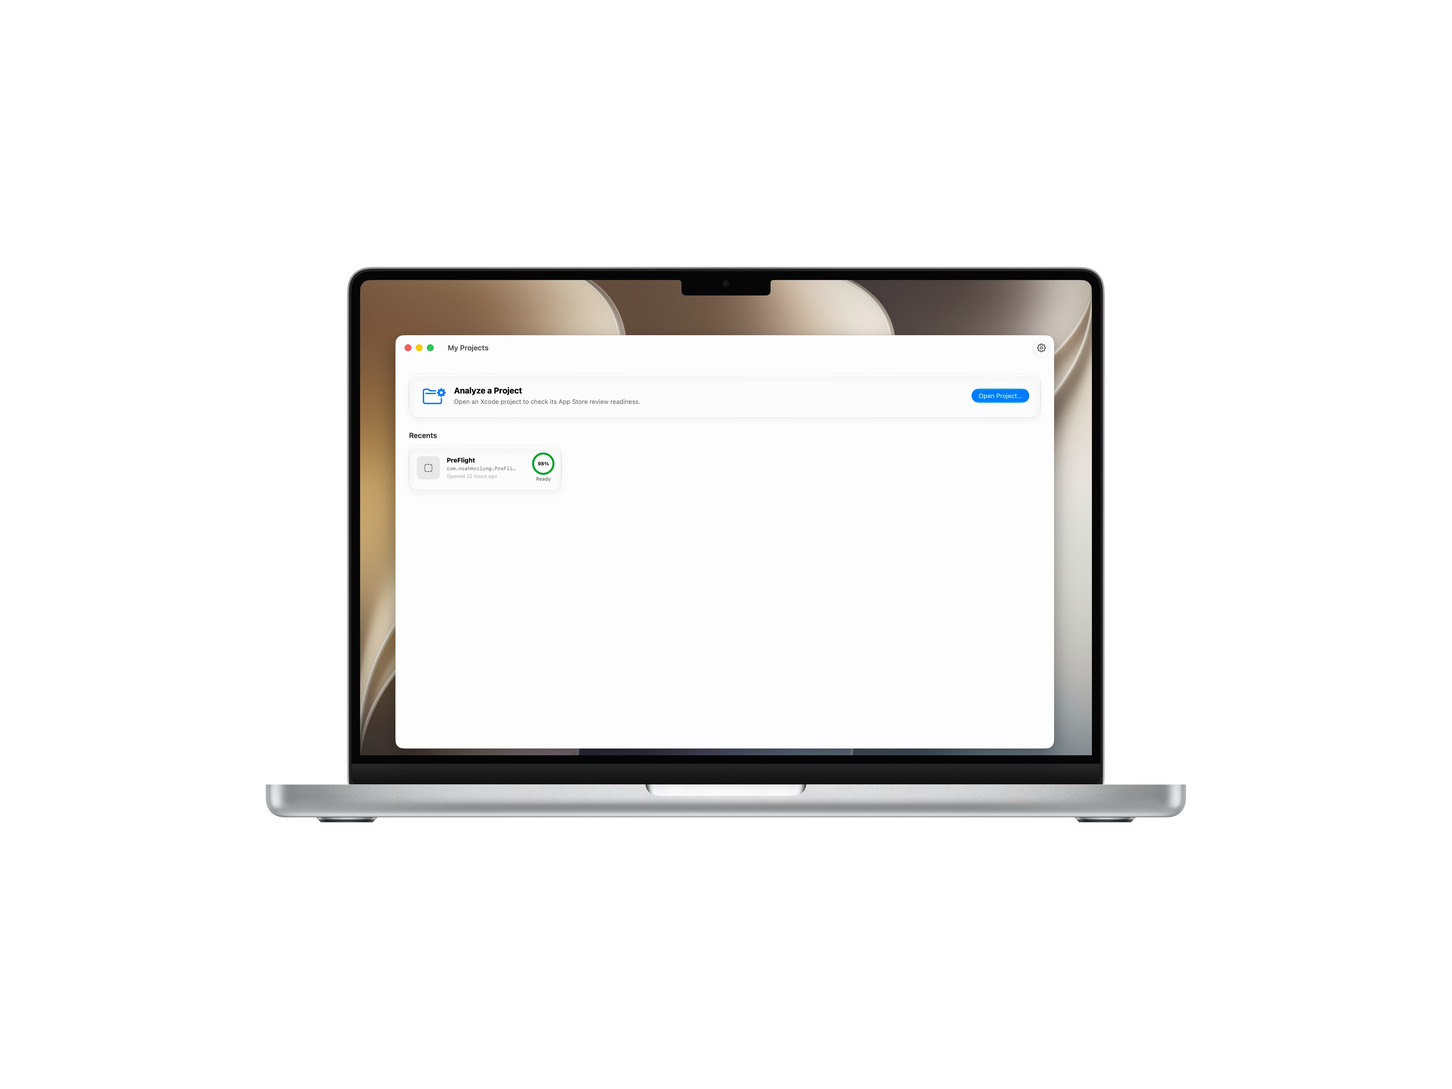
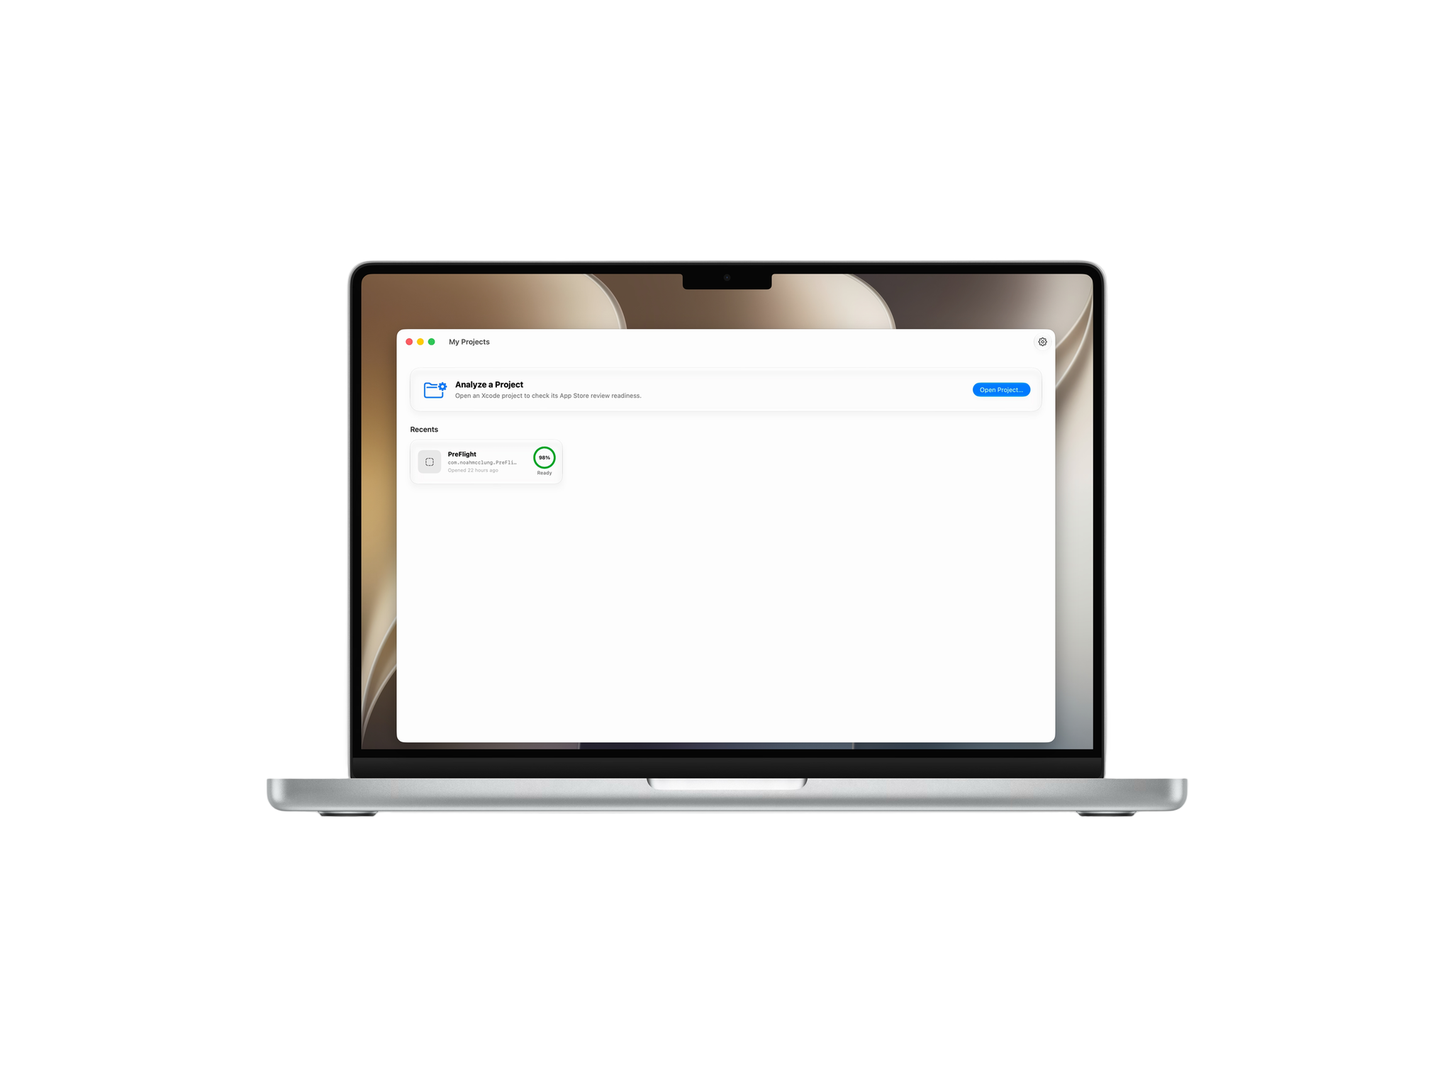
Added privacy, terms, and fixed dark/light mode

Changed region(s): [[0.187, 0.2178, 0.8415, 0.7778], [0.3117, 0.4044, 0.4052, 0.4356], [0.6545, 0.3422, 0.7168, 0.3733]]

diff --git a/src/pages/Terms.tsx b/src/pages/Terms.tsx
@@ -1,12 +1,97 @@
 export default function Terms() {
   return (
-    <main className="min-h-screen pt-28 pb-24 px-6 bg-white dark:bg-black">
-      <div className="max-w-3xl mx-auto">
-        <p className="text-[12px] font-medium tracking-[0.14em] uppercase text-[#0071e3] mb-5">Legal</p>
-        <h1 className="text-[48px] font-bold tracking-[-0.035em] leading-[1.06] text-[#1d1d1f] dark:text-white mb-6">
+    <main className="min-h-screen bg-white px-6 pb-24 pt-28 text-[#1d1d1f] dark:bg-black dark:text-[#f5f5f7]">
+      <div className="mx-auto max-w-4xl">
+        <p className="mb-5 text-[12px] font-semibold uppercase tracking-[0.22em] text-[#0071e3]">
+          Legal
+        </p>
+        <h1 className="mb-6 text-[40px] font-semibold tracking-[-0.035em] leading-[1.02] sm:text-[48px]">
           Terms of Use
         </h1>
-        <p className="text-[17px] text-[#6e6e73]">Content coming soon.</p>
+        <p className="mb-8 text-[15px] text-[#6e6e73] dark:text-[#86868b]">
+          Effective date: July 23, 2026
+        </p>
+
+        <article className="rounded-[32px] border border-black/[0.06] bg-white/90 p-8 shadow-[0_20px_60px_rgba(0,0,0,0.06)] backdrop-blur sm:p-10 dark:border-white/[0.08] dark:bg-white/[0.04]">
+          <p className="mb-6 text-[17px] leading-8 text-[#1d1d1f] dark:text-[#f5f5f7]">
+            Thank you for using PreFlight. PreFlight is a macOS developer tool that analyzes your Xcode projects and App Store Connect metadata to help you prepare for App Store review. These Terms of Use are an agreement between you and the developer of PreFlight. By downloading or using PreFlight, you agree to these Terms.
+          </p>
+
+          <section className="mb-8">
+            <h2 className="mb-3 text-[18px] font-semibold tracking-[-0.02em]">1. License</h2>
+            <p className="text-[15px] leading-8 text-[#424245] dark:text-[#d1d1d6]">
+              We grant you a personal, non-exclusive, non-transferable license to install and use PreFlight on Apple-branded devices that you own or control, for the purpose of analyzing software projects that you have the right to analyze. This includes use in your professional and commercial work. You may not copy, modify, distribute, sell, rent, or sublicense the app itself, and you may not reverse engineer or attempt to extract its source code except to the extent the law permits.
+            </p>
+          </section>
+
+          <section className="mb-8">
+            <h2 className="mb-3 text-[18px] font-semibold tracking-[-0.02em]">2. Your projects and credentials</h2>
+            <p className="text-[15px] leading-8 text-[#424245] dark:text-[#d1d1d6]">
+              PreFlight analyzes the Xcode projects you choose to open. You are responsible for ensuring you have the right to open and analyze those projects. If you choose to connect App Store Connect, you provide your own API credentials. Those credentials remain on your Mac, and PreFlight uses them only to read your app’s metadata directly from Apple’s App Store Connect API. You are responsible for keeping your credentials secure and for your compliance with Apple’s own terms.
+            </p>
+          </section>
+
+          <section className="mb-8">
+            <h2 className="mb-3 text-[18px] font-semibold tracking-[-0.02em]">3. No guarantee of App Review outcomes</h2>
+            <ul className="space-y-3 text-[15px] leading-8 text-[#424245] dark:text-[#d1d1d6]">
+              <li><span className="font-semibold text-[#1d1d1f] dark:text-white">Informational findings.</span> A clean report means the app passed the checks PreFlight can run — it does not mean your app will be approved.</li>
+              <li><span className="font-semibold text-[#1d1d1f] dark:text-white">Heuristic findings.</span> Findings marked as heuristic are educated guesses and can be wrong in either direction.</li>
+              <li><span className="font-semibold text-[#1d1d1f] dark:text-white">Guideline references.</span> References to review guidelines are provided for orientation and are not legal or professional advice.</li>
+            </ul>
+          </section>
+
+          <section className="mb-8">
+            <h2 className="mb-3 text-[18px] font-semibold tracking-[-0.02em]">4. Relationship to Apple</h2>
+            <p className="text-[15px] leading-8 text-[#424245] dark:text-[#d1d1d6]">
+              PreFlight is an independent tool. It is not affiliated with, endorsed by, or sponsored by Apple Inc. Apple, App Store, Xcode, App Store Connect, and macOS are trademarks of Apple Inc. Your use of Apple’s services is governed by your own agreements with Apple.
+            </p>
+          </section>
+
+          <section className="mb-8">
+            <h2 className="mb-3 text-[18px] font-semibold tracking-[-0.02em]">5. Disclaimer of warranties</h2>
+            <p className="text-[15px] leading-8 text-[#424245] dark:text-[#d1d1d6]">
+              PreFlight is provided “as is” and “as available,” without warranties of any kind, including implied warranties of merchantability, fitness for a particular purpose, accuracy, and non-infringement. We do not warrant that the app will be error-free or uninterrupted, or that its analysis will identify every issue in your project.
+            </p>
+          </section>
+
+          <section className="mb-8">
+            <h2 className="mb-3 text-[18px] font-semibold tracking-[-0.02em]">6. Limitation of liability</h2>
+            <p className="text-[15px] leading-8 text-[#424245] dark:text-[#d1d1d6]">
+              To the maximum extent permitted by law, we will not be liable for indirect, incidental, special, consequential, or punitive damages, or for any loss of profits, revenue, data, or business opportunity, arising out of or related to your use of PreFlight. Our total aggregate liability is limited to the amount you paid for PreFlight in the twelve months before the claim arose, or $10 if you paid nothing.
+            </p>
+          </section>
+
+          <section className="mb-8">
+            <h2 className="mb-3 text-[18px] font-semibold tracking-[-0.02em]">7. Changes to the app and these terms</h2>
+            <p className="text-[15px] leading-8 text-[#424245] dark:text-[#d1d1d6]">
+              We may update, change, or discontinue PreFlight or any of its features at any time. We may also revise these Terms; if we do, we will update the effective date above. Your continued use after a revision becomes effective means you accept the revised Terms.
+            </p>
+          </section>
+
+          <section className="mb-8">
+            <h2 className="mb-3 text-[18px] font-semibold tracking-[-0.02em]">8. Termination</h2>
+            <p className="text-[15px] leading-8 text-[#424245] dark:text-[#d1d1d6]">
+              These Terms remain in effect until terminated. They terminate automatically if you fail to comply with them, and you may terminate them at any time by deleting the app. Sections 3 through 6 survive termination.
+            </p>
+          </section>
+
+          <section className="mb-8">
+            <h2 className="mb-3 text-[18px] font-semibold tracking-[-0.02em]">9. Governing law</h2>
+            <p className="text-[15px] leading-8 text-[#424245] dark:text-[#d1d1d6]">
+              These Terms are governed by the laws of the State of Nevada, USA, without regard to its conflict-of-law rules. Any dispute arising out of these Terms or your use of PreFlight will be brought in the state or federal courts located in Nevada, and you consent to their jurisdiction.
+            </p>
+          </section>
+
+          <section>
+            <h2 className="mb-3 text-[18px] font-semibold tracking-[-0.02em]">10. Contact</h2>
+            <p className="text-[15px] leading-8 text-[#424245] dark:text-[#d1d1d6]">
+              Questions about these Terms are welcome at{' '}
+              <a href="mailto:contact@noahmcclung.com" className="text-[#0071e3] underline-offset-4 hover:underline">
+                contact@noahmcclung.com
+              </a>
+            </p>
+          </section>
+        </article>
       </div>
     </main>
   )

diff --git a/src/pages/Privacy.tsx b/src/pages/Privacy.tsx
@@ -1,12 +1,112 @@
 export default function Privacy() {
   return (
-    <main className="min-h-screen pt-28 pb-24 px-6 bg-white dark:bg-black">
-      <div className="max-w-3xl mx-auto">
-        <p className="text-[12px] font-medium tracking-[0.14em] uppercase text-[#0071e3] mb-5">Legal</p>
-        <h1 className="text-[48px] font-bold tracking-[-0.035em] leading-[1.06] text-[#1d1d1f] dark:text-white mb-6">
+    <main className="min-h-screen bg-white px-6 pb-24 pt-28 text-[#1d1d1f] dark:bg-black dark:text-[#f5f5f7]">
+      <div className="mx-auto max-w-4xl">
+        <p className="mb-5 text-[12px] font-semibold uppercase tracking-[0.22em] text-[#0071e3]">
+          Legal
+        </p>
+        <h1 className="mb-6 text-[40px] font-semibold tracking-[-0.035em] leading-[1.02] sm:text-[48px]">
           Privacy Policy
         </h1>
-        <p className="text-[17px] text-[#6e6e73]">Content coming soon.</p>
+        <p className="mb-8 text-[15px] text-[#6e6e73] dark:text-[#86868b]">
+          Effective date: July 23, 2026
+        </p>
+
+        <article className="rounded-[32px] border border-black/[0.06] bg-white/90 p-8 shadow-[0_20px_60px_rgba(0,0,0,0.06)] backdrop-blur sm:p-10 dark:border-white/[0.08] dark:bg-white/[0.04]">
+          <p className="mb-6 text-[17px] leading-8 text-[#1d1d1f] dark:text-[#f5f5f7]">
+            PreFlight is a macOS developer tool that analyzes your Xcode projects for App Store review readiness. It was built to work entirely on your Mac. This policy explains what information PreFlight handles, where it lives, and what never leaves your computer.
+          </p>
+
+          <section className="mb-8">
+            <h2 className="mb-3 text-[18px] font-semibold tracking-[-0.02em]">
+              The short version
+            </h2>
+            <p className="text-[15px] leading-8 text-[#424245] dark:text-[#d1d1d6]">
+              PreFlight does not collect, sell, or share your personal information. It has no accounts, no analytics, no advertising, no tracking, and no servers of our own. Everything the app knows about you and your projects stays on your Mac, with one exception you control: if you add an App Store Connect API key, PreFlight talks directly to Apple on your behalf.
+            </p>
+          </section>
+
+          <section className="mb-8">
+            <h2 className="mb-3 text-[18px] font-semibold tracking-[-0.02em]">
+              Information stored on your Mac
+            </h2>
+            <ul className="space-y-3 text-[15px] leading-8 text-[#424245] dark:text-[#d1d1d6]">
+              <li><span className="font-semibold text-[#1d1d1f] dark:text-white">Settings.</span> Your preferences, including appearance, Apple Intelligence summary settings, and onboarding state, are stored in the app’s preferences on your Mac.</li>
+              <li><span className="font-semibold text-[#1d1d1f] dark:text-white">Recent projects.</span> PreFlight remembers the projects you’ve opened using macOS security-scoped bookmarks so it can reopen them with your permission. You can remove entries at any time from the Home screen.</li>
+              <li><span className="font-semibold text-[#1d1d1f] dark:text-white">Reports.</span> The most recent analysis report for each project is saved in the app’s local container so you can revisit it. Reports never leave your Mac.</li>
+              <li><span className="font-semibold text-[#1d1d1f] dark:text-white">App Store Connect credentials.</span> If you connect App Store Connect, your Issuer ID and Key ID are stored in the app’s preferences, and your private key (.p8) is stored in the macOS Keychain on your Mac. Your credentials are never sent to us.</li>
+            </ul>
+          </section>
+
+          <section className="mb-8">
+            <h2 className="mb-3 text-[18px] font-semibold tracking-[-0.02em]">
+              Your source code
+            </h2>
+            <p className="text-[15px] leading-8 text-[#424245] dark:text-[#d1d1d6]">
+              PreFlight reads your project files locally in order to analyze them. Your source code is never uploaded anywhere, never used for anything other than producing your report, and never retained beyond what is described above.
+            </p>
+          </section>
+
+          <section className="mb-8">
+            <h2 className="mb-3 text-[18px] font-semibold tracking-[-0.02em]">
+              Information sent over the network
+            </h2>
+            <ul className="space-y-3 text-[15px] leading-8 text-[#424245] dark:text-[#d1d1d6]">
+              <li><span className="font-semibold text-[#1d1d1f] dark:text-white">App Store Connect (optional, at your direction).</span> If you add an API key, PreFlight calls Apple’s App Store Connect API directly using your credentials solely to read your app’s metadata such as privacy policy URL, description, screenshots, and subscription configuration. PreFlight only reads; it never modifies your apps. This traffic goes to Apple, not to us, and is subject to Apple’s privacy policy and terms.</li>
+              <li><span className="font-semibold text-[#1d1d1f] dark:text-white">Nothing else.</span> PreFlight sends no telemetry, crash reports, usage statistics, or identifiers to us or any third party.</li>
+            </ul>
+          </section>
+
+          <section className="mb-8">
+            <h2 className="mb-3 text-[18px] font-semibold tracking-[-0.02em]">
+              Apple Intelligence
+            </h2>
+            <p className="text-[15px] leading-8 text-[#424245] dark:text-[#d1d1d6]">
+              If you enable AI summaries, they are generated by Apple Intelligence on-device. Your report data is processed locally by the system model and is not sent to us.
+            </p>
+          </section>
+
+          <section className="mb-8">
+            <h2 className="mb-3 text-[18px] font-semibold tracking-[-0.02em]">
+              Children
+            </h2>
+            <p className="text-[15px] leading-8 text-[#424245] dark:text-[#d1d1d6]">
+              PreFlight is a professional developer tool and is not directed at children under 13. We do not knowingly collect personal information from anyone, including children.
+            </p>
+          </section>
+
+          <section className="mb-8">
+            <h2 className="mb-3 text-[18px] font-semibold tracking-[-0.02em]">
+              Your choices
+            </h2>
+            <ul className="space-y-3 text-[15px] leading-8 text-[#424245] dark:text-[#d1d1d6]">
+              <li>You can remove recent projects from the Home screen at any time.</li>
+              <li>You can remove your App Store Connect key in Settings, which deletes the private key from your Keychain.</li>
+              <li>You can delete the app, which removes its local container, including settings and saved reports.</li>
+            </ul>
+          </section>
+
+          <section className="mb-8">
+            <h2 className="mb-3 text-[18px] font-semibold tracking-[-0.02em]">
+              Changes to this policy
+            </h2>
+            <p className="text-[15px] leading-8 text-[#424245] dark:text-[#d1d1d6]">
+              If PreFlight’s privacy practices ever change, we will update this policy and its effective date before the change takes effect.
+            </p>
+          </section>
+
+          <section>
+            <h2 className="mb-3 text-[18px] font-semibold tracking-[-0.02em]">
+              Contact
+            </h2>
+            <p className="text-[15px] leading-8 text-[#424245] dark:text-[#d1d1d6]">
+              Questions about privacy are welcome at{' '}
+              <a href="mailto:contact@noahmcclung.com" className="text-[#0071e3] underline-offset-4 hover:underline">
+                contact@noahmcclung.com
+              </a>
+            </p>
+          </section>
+        </article>
       </div>
     </main>
   )

diff --git a/src/components/ReadinessScore.tsx b/src/components/ReadinessScore.tsx
@@ -33,7 +33,7 @@ function ScoreRing({ animate }: { animate: boolean }) {
   return (
     <div className="relative mx-auto" style={{ width: 296, height: 296 }}>
       <svg width="296" height="296" style={{ transform: 'rotate(-90deg)', overflow: 'visible' }}>
-        <circle cx="148" cy="148" r={r} fill="none" stroke="#E5E5EA" strokeWidth={strokeW} />
+        <circle cx="148" cy="148" r={r} fill="none" stroke="#E5E5EA" strokeWidth={strokeW} className="dark:stroke-[#2a2a2d]" />
         <circle
           cx="148" cy="148" r={r}
           fill="none"
@@ -46,10 +46,10 @@ function ScoreRing({ animate }: { animate: boolean }) {
         />
       </svg>
       <div className="absolute inset-0 flex flex-col items-center justify-center select-none">
-        <span className="text-[76px] font-bold tracking-[-0.04em] leading-none text-[#1d1d1f] tabular-nums">
+        <span className="text-[76px] font-bold tracking-[-0.04em] leading-none text-[#1d1d1f] tabular-nums dark:text-[#f5f5f7]">
           {count}
         </span>
-        <span className="text-[15px] text-[#6e6e73] mt-2">out of 100</span>
+        <span className="mt-2 text-[15px] text-[#6e6e73] dark:text-[#86868b]">out of 100</span>
       </div>
     </div>
   )
@@ -60,17 +60,17 @@ export default function ReadinessScore() {
   const { ref: ringRef, inView: ringIn } = useInView(0.35)
 
   return (
-    <section className="py-10 px-6 bg-white">
-      <div className="max-w-2xl mx-auto text-center">
+    <section className="bg-white px-6 py-10 dark:bg-black">
+      <div className="mx-auto max-w-2xl text-center">
         {/* Headline */}
         <div
           ref={headRef as React.RefObject<HTMLDivElement>}
           className={cn('mb-20 fade-up', headIn && 'in-view')}
         >
-          <p className="text-[11px] font-semibold tracking-[0.22em] uppercase text-[#6e6e73] mb-5">
+          <p className="mb-5 text-[11px] font-semibold uppercase tracking-[0.22em] text-[#6e6e73] dark:text-[#86868b]">
             Release Readiness
           </p>
-          <h2 className="text-[52px] md:text-[64px] font-bold tracking-[-0.045em] leading-[1.02] text-[#1d1d1f]">
+          <h2 className="text-[52px] font-bold leading-[1.02] tracking-[-0.045em] text-[#1d1d1f] dark:text-[#f5f5f7] md:text-[64px]">
             Know before<br />you submit.
           </h2>
         </div>
@@ -83,7 +83,7 @@ export default function ReadinessScore() {
           <ScoreRing animate={ringIn} />
 
           <p
-            className="mt-10 text-[19px] text-[#6e6e73]"
+            className="mt-10 text-[19px] text-[#6e6e73] dark:text-[#86868b]"
             style={{
               opacity: ringIn ? 1 : 0,
               transform: ringIn ? 'translateY(0)' : 'translateY(12px)',

diff --git a/src/components/Hero.tsx b/src/components/Hero.tsx
@@ -11,7 +11,7 @@ export default function Hero() {
   }, [])
 
   return (
-    <section className="bg-white overflow-hidden">
+    <section className="overflow-hidden bg-white dark:bg-black">
       {/* Text block */}
       <div className="pt-[136px] pb-5 text-center px-6">
         <div className={cn('transition-all duration-1000 ease-out', visible ? 'opacity-100 translate-y-0' : 'opacity-0 translate-y-8')}>
@@ -22,13 +22,13 @@ export default function Hero() {
             draggable={false}
           />
          
-          <p className="text-[11px] font-semibold tracking-[0.22em] uppercase text-[#6e6e73] mb-6 select-none">
+          <p className="mb-6 text-[11px] font-semibold uppercase tracking-[0.22em] text-[#6e6e73] dark:text-[#86868b] select-none">
             For macOS
           </p>
-          <h1 className="text-[72px] md:text-[88px] lg:text-[96px] font-bold tracking-[-0.05em] leading-[0.97] text-[#1d1d1f] mb-7">
+          <h1 className="mb-7 text-[72px] font-bold leading-[0.97] tracking-[-0.05em] text-[#1d1d1f] dark:text-[#f5f5f7] md:text-[88px] lg:text-[96px]">
             Ship with confidence.
           </h1>
-          <p className="text-[19px] md:text-[21px] text-[#6e6e73] leading-[1.45] max-w-[400px] mx-auto mb-11">
+          <p className="mx-auto mb-11 max-w-[400px] text-[19px] leading-[1.45] text-[#6e6e73] dark:text-[#86868b] md:text-[21px]">
             Know your app is ready<br />before App Review does.
           </p>
           <Link

diff --git a/src/components/AISummary.tsx b/src/components/AISummary.tsx
@@ -5,8 +5,8 @@ export default function AISummary() {
   const { ref, inView } = useInView()
 
   return (
-    <section className="py-40 px-6 bg-[#f5f5f7]">
-      <div className="max-w-3xl mx-auto text-center">
+    <section className="bg-[#f5f5f7] px-6 py-40 dark:bg-[#111111]">
+      <div className="mx-auto max-w-3xl text-center">
         <div
           ref={ref as React.RefObject<HTMLDivElement>}
           className={cn('fade-up', inView && 'in-view')}
@@ -17,7 +17,7 @@ export default function AISummary() {
 
           {/* The quote — this IS the section */}
           <blockquote
-            className="text-[26px] md:text-[30px] font-medium tracking-[-0.02em] leading-[1.38] text-[#1d1d1f]"
+            className="text-[26px] font-medium leading-[1.38] tracking-[-0.02em] text-[#1d1d1f] dark:text-[#f5f5f7] md:text-[30px]"
             style={{ fontStyle: 'normal' }}
           >
             <span className="text-[#0071e3] mr-1" style={{ fontSize: '1.2em', lineHeight: 0, verticalAlign: '-0.1em' }}>"</span>
@@ -29,7 +29,7 @@ export default function AISummary() {
 
           <div className="mt-10 flex items-center justify-center gap-2">
             <div className="w-1.5 h-1.5 rounded-full bg-[#0071e3]" />
-            <p className="text-[13px] text-[#6e6e73]">
+            <p className="text-[13px] text-[#6e6e73] dark:text-[#86868b]">
               Generated by PreFlight AI · Updated with every scan
             </p>
           </div>

diff --git a/src/components/IssueCounter.tsx b/src/components/IssueCounter.tsx
@@ -40,13 +40,13 @@ export default function IssueCounter() {
   const color = stepColor[step]
 
   return (
-    <section className="py-40 px-6 bg-white">
-      <div className="max-w-xl mx-auto text-center">
+    <section className="bg-white px-6 py-40 dark:bg-black">
+      <div className="mx-auto max-w-xl text-center">
         <div
           ref={ref as React.RefObject<HTMLDivElement>}
           className={cn('fade-up', inView && 'in-view')}
         >
-          <p className="text-[11px] font-semibold tracking-[0.22em] uppercase text-[#6e6e73] mb-16 select-none">
+          <p className="mb-16 text-[11px] font-semibold uppercase tracking-[0.22em] text-[#6e6e73] dark:text-[#86868b] select-none">
             Issue Detection
           </p>
 
@@ -71,7 +71,7 @@ export default function IssueCounter() {
 
           {/* Label */}
           <p
-            className="mt-4 font-medium text-[#1d1d1f]"
+            className="mt-4 font-medium text-[#1d1d1f] dark:text-[#f5f5f7]"
             style={{
               fontSize: '22px',
               opacity: show ? 1 : 0,

diff --git a/src/components/Navbar.tsx b/src/components/Navbar.tsx
@@ -20,11 +20,11 @@ export default function Navbar() {
     <header
       className={`fixed inset-x-0 top-0 z-50 transition-all duration-300 ${
         scrolled
-          ? 'bg-white/80 dark:bg-black/80 backdrop-blur-2xl border-b border-black/[0.07] dark:border-white/[0.07]'
+          ? 'bg-white/70 backdrop-blur-2xl border-b border-black/[0.07] dark:border-white/[0.08] dark:bg-black/70'
           : 'bg-transparent'
       }`}
     >
-      <div className="mx-auto flex h-15 max-w-6xl items-center justify-between px-6 sm:px-8">
+      <div className="mx-auto flex h-16 max-w-6xl items-center justify-between px-6 sm:px-8">
         <Link
           to="/"
           className="text-[20px] font-bold tracking-tight text-[#1d1d1f] dark:text-white select-none"

diff --git a/src/components/DownloadCTA.tsx b/src/components/DownloadCTA.tsx
@@ -6,7 +6,7 @@ export default function DownloadCTA() {
   const { ref, inView } = useInView()
 
   return (
-    <section className="py-40 px-6 bg-[#1d1d1f]">
+    <section className="bg-[#1d1d1f] px-6 py-40 dark:bg-[#0a0a0a]">
       <div
         ref={ref as React.RefObject<HTMLDivElement>}
         className={cn('max-w-3xl mx-auto text-center fade-up', inView && 'in-view')}
